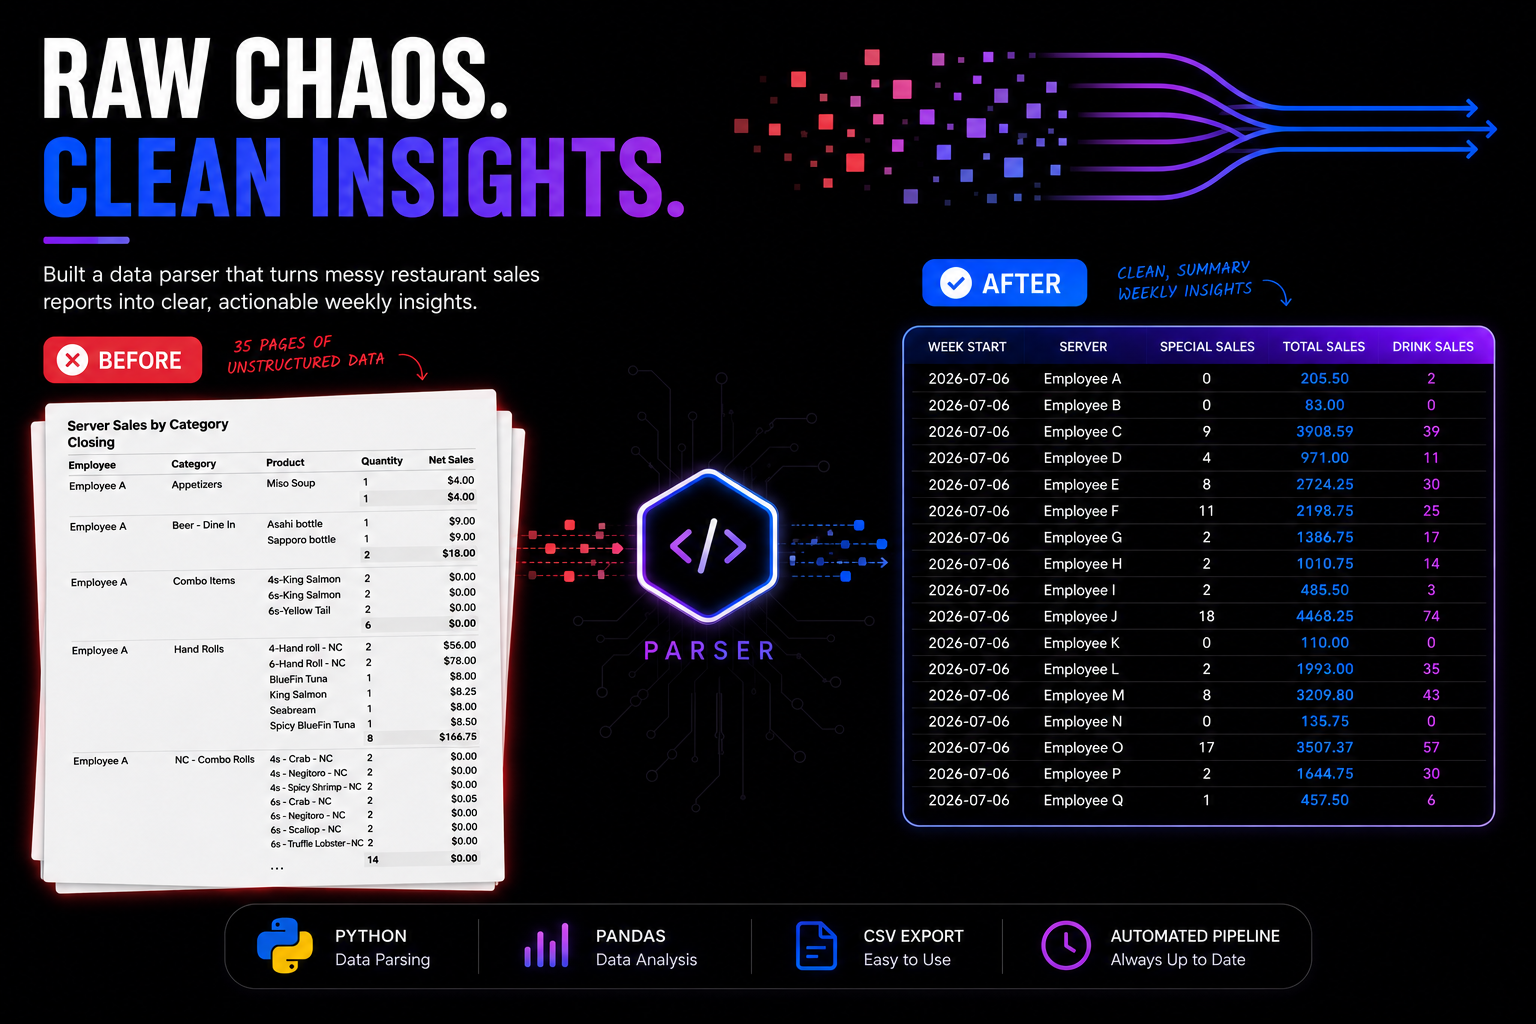
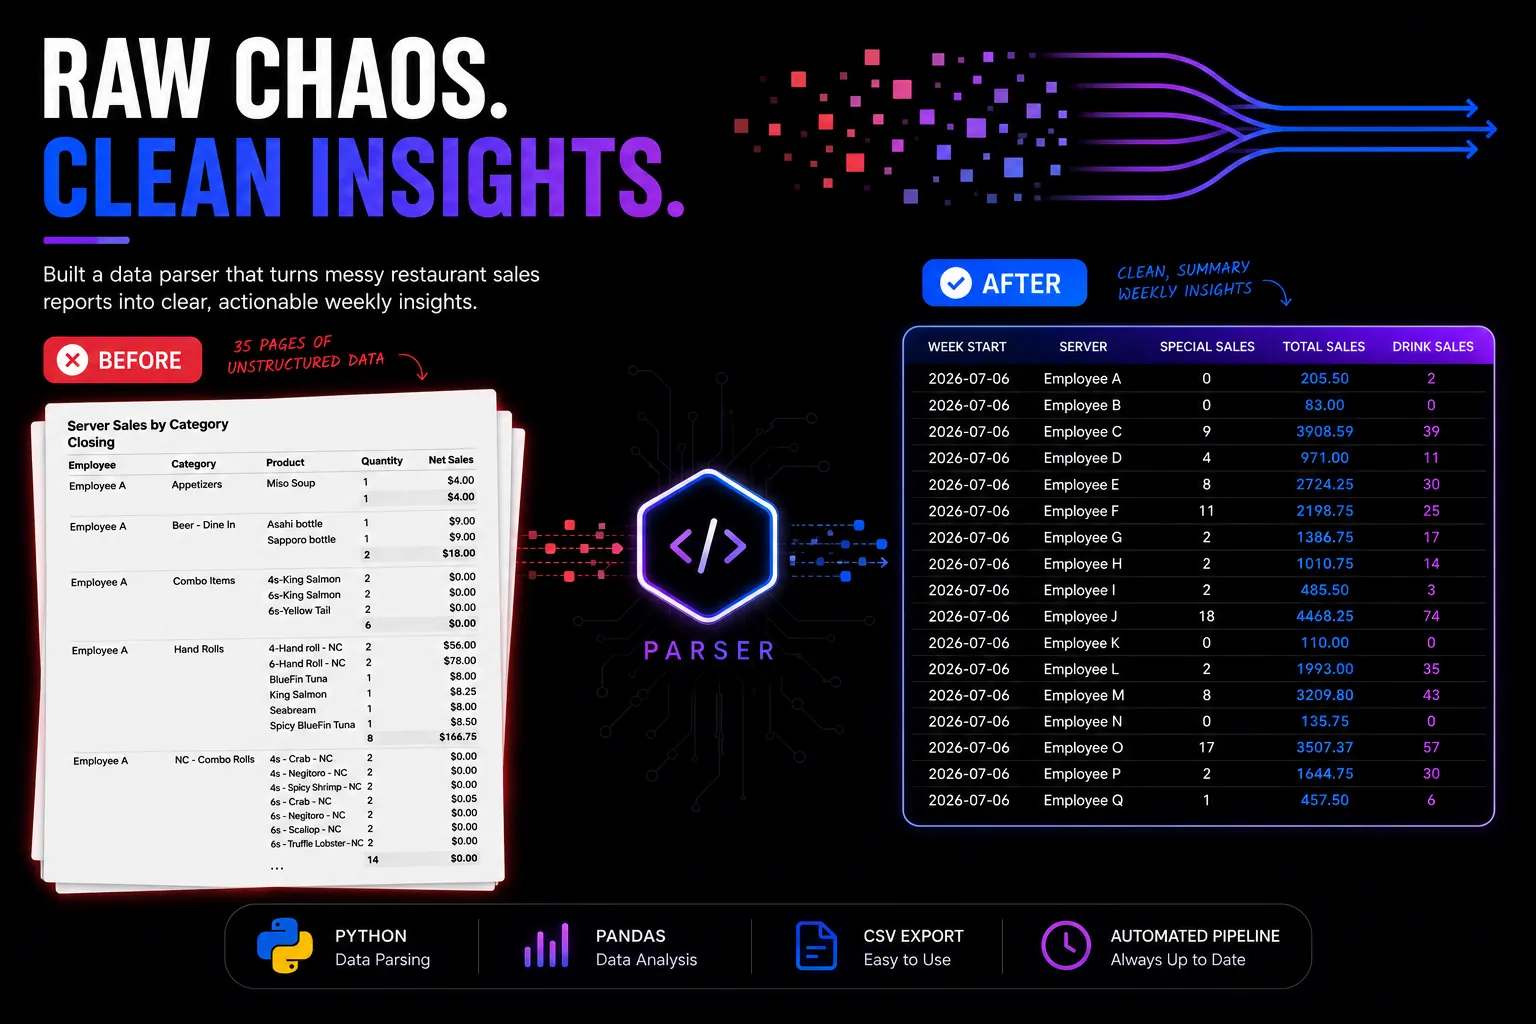
homepage changes

diff --git a/liamthemo-freelance-website/src/app/page.tsx b/liamthemo-freelance-website/src/app/page.tsx
@@ -1,10 +1,10 @@
 import type { Metadata } from "next";
 import Link from "next/link";
 import CTASection from "@/components/CTASection";
-import Mark from "@/components/Mark";
-import ProcessDiagram from "@/components/ProcessDiagram";
+import FeaturedWork from "@/components/FeaturedWork";
+import HeroArt from "@/components/HeroArt";
 import ServiceTriage from "@/components/ServiceTriage";
-import { CTA } from "@/lib/nav";
+import { projects } from "@/data/projects";
 
 /*
   Home. Fully static — nothing on this page reads cookies(), headers(),
@@ -67,68 +67,90 @@ export default function Home() {
         <div className="relative mx-auto max-w-6xl px-5 pt-16 pb-16 sm:px-8 sm:pt-24 sm:pb-20">
           <div className="grid items-center gap-14 lg:grid-cols-[minmax(0,1fr)_minmax(0,24rem)]">
             <div>
-              <h1 className="max-w-[16ch] text-display text-text">
-                I build tools that save you <Mark>time</Mark>
+              {/*
+                Owner call, overriding §11's "outcome work" reading of this
+                exact line: ships as the mockup's literal words. The triage
+                widget directly below is what actually does the outcome work
+                for a confused visitor — see its own note in ServiceTriage.tsx.
+              */}
+              <h1 className="max-w-[18ch] text-display text-text">
+                <span className="block">
+                  Hi, I&apos;m <span className="text-accent">Liam</span>.
+                </span>
+                <span className="block">
+                  I design and build digital experiences.
+                </span>
               </h1>
               <p className="mt-6 max-w-[52ch] text-body text-text-muted">
                 Custom automation, spreadsheets, websites, and technology
                 solutions for individuals and small businesses.
               </p>
 
-              <div className="mt-9 flex flex-col gap-3 sm:flex-row sm:items-center">
-                <Link
-                  href={CTA.href}
-                  className="inline-flex items-center justify-center rounded-lg border border-accent bg-accent px-5 py-2.5 font-semibold text-bg transition-colors hover:bg-accent-hover"
-                >
-                  {CTA.label}
-                </Link>
-                {/*
-                  Secondary action is a link, not a second filled button. Two
-                  equally weighted buttons make the visitor choose twice.
-                */}
+              {/*
+                Single action, matching the mockup — "Contact now" isn't
+                dropped from the page, it's one section down as the triage
+                widget's whole reason for existing, and again at the closing
+                CTA. This link doesn't need to also carry that weight.
+              */}
+              <div className="mt-9">
                 <Link
                   href="/portfolio"
-                  className="inline-flex items-center justify-center rounded-lg px-5 py-2.5 font-medium text-accent underline underline-offset-4 transition-colors hover:text-accent-hover"
+                  className="group inline-flex items-center gap-2 rounded-full border border-accent px-6 py-3 font-medium text-text transition-all duration-200 hover:border-accent-hover hover:shadow-[0_0_24px_var(--color-accent-dim)]"
                 >
-                  See what I&apos;ve done
+                  View my work
+                  <svg
+                    aria-hidden="true"
+                    viewBox="0 0 24 24"
+                    fill="none"
+                    stroke="currentColor"
+                    strokeWidth="2"
+                    strokeLinecap="round"
+                    strokeLinejoin="round"
+                    className="h-4 w-4 text-accent transition-transform group-hover:translate-x-0.5 group-hover:-translate-y-0.5"
+                  >
+                    <path d="M7 17 17 7M9 7h8v8" />
+                  </svg>
                 </Link>
               </div>
             </div>
 
             {/*
               Hidden below lg, and that is a conversion decision rather than a
-              layout shortcut. On a phone the diagram is decorative weight sitting
-              between the headline and the triage widget, and §2's first success
-              criterion is that a confused visitor finds the right service in
-              under 15 seconds. Mobile still gets the dot grid and the marked
-              keyword; it does not need to scroll past a picture to reach the
-              thing that actually converts.
+              layout shortcut. On a phone the artwork is decorative weight
+              sitting between the headline and the triage widget, and §2's
+              first success criterion is that a confused visitor finds the
+              right service in under 15 seconds. Mobile still gets the dot
+              grid and the full headline; it does not need to scroll past a
+              picture to reach the thing that actually converts.
             */}
-            <ProcessDiagram className="hidden lg:block" />
+            <HeroArt className="hidden lg:block" />
           </div>
         </div>
       </section>
 
       <ServiceTriage />
 
-      {/*
-        TODO (owner input required): the social proof strip from §14 step 2 sits
-        here, between the triage widget and the closing CTA.
+      <section
+        aria-labelledby="featured-work-heading"
+        className="mx-auto max-w-6xl px-5 py-16 sm:px-8 sm:py-20"
+      >
+        <div className="flex items-baseline justify-between gap-4">
+          <h2 id="featured-work-heading" className="text-h2 text-text">
+            Featured work
+          </h2>
+          <Link
+            href="/portfolio"
+            className="inline-flex shrink-0 items-center gap-1 text-small font-medium text-accent underline underline-offset-4 hover:text-accent-hover"
+          >
+            View all
+            <span aria-hidden="true">→</span>
+          </Link>
+        </div>
 
-        Deliberately not built. Everything that would fill it — a result metric,
-        a client name, a testimonial, a project count — is either an open
-        decision in §15 or something §10 forbids inventing. A strip of plausible
-        placeholder numbers is the single fastest way to lose a real client, and
-        it would be indistinguishable from real copy by the time anyone came back
-        to fix it.
-
-        To unblock, the owner needs to supply any ONE of:
-          - a real metric for the Restaurant Sales Parser (hours saved per week,
-            and the manual step it removed)
-          - permission to name Fuse Factory publicly
-          - a screenshot of real work that can be shown (§9 prefers a real
-            screenshot over any illustration)
-      */}
+        <div className="mt-8">
+          <FeaturedWork projects={projects} />
+        </div>
+      </section>
 
       {/*
         No secondary link here (unlike the other pages' CTASection) — the

diff --git a/liamthemo-freelance-website/src/components/HeroArt.tsx b/liamthemo-freelance-website/src/components/HeroArt.tsx
@@ -1,0 +1,83 @@
+/*
+  The hero's visual (CLAUDE.md §15 Phase 2, mockup composition: "large heading
+  left, artwork right"). Rebuilds the mockup's glowing-badge concept as inline
+  SVG + CSS rather than reusing the mockup's own render.
+
+  WHY NOT THE MOCKUP'S ASSET. That render only exists baked into the flattened
+  homepage screenshot — extracted, it's a ~650x320px crop, below retina
+  quality at real hero size, unlicensed for production use, and it's an LCP
+  candidate, so shipping a soft upscaled crop as the first paint is a bad
+  trade. It's also the kind of generic 3D render §9.6 lists as an anti-goal.
+
+  WHAT THIS IS INSTEAD: the real "lm" mark (same glyph as Navbar/Footer) on a
+  card, with a soft --accent-dim glow behind it standing in for the rim light,
+  and a low-contrast "mound" shape anchoring it to something solid — same
+  spirit as the mockup, zero image weight, infinitely crisp, no licensing
+  question, and it reinforces the actual logo instead of a stock-feeling prop.
+
+  EDGES BLEND, NOT A VISIBLE BOX. The glow is a blurred radial-gradient div
+  behind the SVG, feathering to transparent well before the container edge —
+  required per this phase's brief ("edges blend into the background rather
+  than showing a visible box"). The mound uses --surface-2, one step off
+  --bg, so its silhouette reads as form without a hard outline.
+*/
+
+export default function HeroArt({ className = "" }: { className?: string }) {
+  return (
+    <div className={`relative flex items-center justify-center ${className}`}>
+      <div
+        aria-hidden="true"
+        className="pointer-events-none absolute inset-0 blur-3xl"
+        style={{
+          background:
+            "radial-gradient(closest-side, var(--color-accent-dim), transparent)",
+        }}
+      />
+      <svg
+        viewBox="0 0 480 480"
+        aria-hidden="true"
+        focusable="false"
+        className="relative h-auto w-full max-w-[26rem]"
+      >
+        {/* Mound — low-contrast against --bg on purpose, so it reads as a
+            surface the card sits on rather than a distinct shape. */}
+        <path
+          d="M40 400 Q100 320 190 340 Q260 300 330 350 Q410 330 450 400 L450 460 L30 460 Z"
+          className="fill-surface-2"
+        />
+
+        {/* Card */}
+        <rect
+          x="140"
+          y="90"
+          width="200"
+          height="200"
+          rx="32"
+          className="fill-surface stroke-border"
+          strokeWidth="2"
+        />
+        {/* Rim light — one edge only, echoing the mockup's directional glow
+            without a literal 3D render. */}
+        <path
+          d="M172 92 Q142 92 142 122 L142 288"
+          fill="none"
+          className="stroke-accent"
+          strokeWidth="2"
+          strokeLinecap="round"
+          opacity="0.6"
+        />
+
+        <text
+          x="240"
+          y="215"
+          textAnchor="middle"
+          dominantBaseline="middle"
+          className="fill-accent font-display font-bold"
+          fontSize="88"
+        >
+          lm
+        </text>
+      </svg>
+    </div>
+  );
+}

diff --git a/liamthemo-freelance-website/src/components/FeaturedWork.tsx b/liamthemo-freelance-website/src/components/FeaturedWork.tsx
@@ -1,0 +1,58 @@
+import Image from "next/image";
+import Link from "next/link";
+import type { Project } from "@/lib/types";
+
+/*
+  Home page featured grid (CLAUDE.md §15 Phase 2, §5). Distinct from
+  ProjectCard on purpose: the mockup's three cards are pure cover art, no
+  title/chip/summary caption underneath — the image carries the section on
+  its own, which is what §2's second success criterion ("does the work look
+  impressive... shown large") is asking for here specifically. ProjectCard's
+  richer treatment (chips, title, summary) is still correct on /portfolio,
+  where a visitor is comparing several projects and needs the text to tell
+  them apart before clicking.
+
+  Every `featured` project is required to carry `images[0]` — see the filter
+  below — so a project flagged featured without cover art fails silently
+  rather than breaking the grid; CLAUDE.md §6 already requires cover art for
+  a featured entry, so this is a defensive check, not the primary guard.
+
+  BELOW THE FOLD, LAZY, DELIBERATELY UNLIKE THE HERO. This section renders
+  after the hero and triage widget, so `loading="lazy"` (next/image's default
+  once `priority` is absent, made explicit here so a future edit can't
+  silently drop it) keeps these three images out of the critical request path
+  entirely — they don't compete with the LCP element for bandwidth.
+*/
+
+export default function FeaturedWork({ projects }: { projects: Project[] }) {
+  const featured = projects.filter(
+    (project) => project.featured && project.images?.[0],
+  );
+
+  return (
+    <ul className="grid gap-6 sm:grid-cols-3">
+      {featured.map((project) => {
+        const cover = project.images![0];
+        return (
+          <li key={project.slug}>
+            <Link
+              href={`/portfolio/${project.slug}`}
+              className="group block overflow-hidden rounded-xl border border-border transition-all duration-200 hover:border-accent hover:shadow-[0_0_28px_var(--color-accent-dim)]"
+            >
+              <div className="relative aspect-[3/2] w-full overflow-hidden">
+                <Image
+                  src={cover.src}
+                  alt={cover.alt}
+                  fill
+                  loading="lazy"
+                  sizes="(min-width: 640px) 33vw, 100vw"
+                  className="object-cover transition-transform duration-300 group-hover:scale-[1.03]"
+                />
+              </div>
+            </Link>
+          </li>
+        );
+      })}
+    </ul>
+  );
+}

diff --git a/liamthemo-freelance-website/src/components/ServiceTriage.tsx b/liamthemo-freelance-website/src/components/ServiceTriage.tsx
@@ -103,8 +103,11 @@ const unsure = {
   emoji: "❓",
 } as const;
 
+// §9.4: hover is a border shift, a subtle lift, and a glow — not just a
+// colour change. accent-dim (not a hard black shadow, which disappears on a
+// dark background) is what §9.4 names for exactly this.
 const cardBase =
-  "group flex h-full items-center gap-4 rounded-xl border p-5 transition-colors";
+  "group flex h-full items-center gap-4 rounded-xl border p-5 transition-all duration-200 hover:-translate-y-0.5";
 
 const chipBase =
   "flex h-10 w-10 shrink-0 items-center justify-center rounded-lg text-lg";
@@ -144,7 +147,7 @@ export default function ServiceTriage() {
             <li key={option.href}>
               <Link
                 href={option.href}
-                className={`${cardBase} border-border bg-surface-2 hover:border-accent`}
+                className={`${cardBase} border-border bg-surface-2 hover:border-accent hover:shadow-[0_0_28px_var(--color-accent-dim)]`}
               >
                 <span aria-hidden="true" className={`${chipBase} ${option.chipClass}`}>
                   {option.emoji}
@@ -169,7 +172,7 @@ export default function ServiceTriage() {
             */}
             <Link
               href={unsure.href}
-              className={`${cardBase} border-accent bg-accent-dim hover:bg-surface-2`}
+              className={`${cardBase} border-accent bg-accent-dim hover:bg-surface-2 hover:shadow-[0_0_32px_var(--color-accent-dim)]`}
             >
               <span aria-hidden="true" className={`${chipBase} bg-accent-dim`}>
                 {unsure.emoji}

diff --git a/liamthemo-freelance-website/src/data/projects.ts b/liamthemo-freelance-website/src/data/projects.ts
@@ -41,7 +41,14 @@ export const projects: Project[] = [
     stack: ["Next.js", "TypeScript", "Tailwind CSS", "Cloudflare Workers"],
     // images: intentionally omitted — no screenshots needed; the visitor is
     // already looking at it.
-    featured: true,
+    //
+    // featured: false — CLAUDE.md §15 Phase 2's approved mockup shows a
+    // specific three: Fuse Factory, OrangeCheasy, Restaurant Sales Parser.
+    // This site is real work, but it isn't image-led the way the mockup's
+    // grid needs (no `images`, and a screenshot of the site the visitor is
+    // already on doesn't demonstrate anything). Flipped in favour of the
+    // mockup's picks rather than adding a fourth featured card.
+    featured: false,
   },
   {
     slug: "fuse-factory",
@@ -74,7 +81,8 @@ export const projects: Project[] = [
         alt: "Fuse Factory game thumbnail: the game logo above three cube-shaped Boomie characters with lit fuses, in a factory setting with colored crates.",
       },
     ],
-    featured: false,
+    // featured: true — one of the mockup's three home-page picks (§15 Phase 2).
+    featured: true,
   },
   {
     slug: "orangecheasy-youtube",
@@ -123,7 +131,8 @@ export const projects: Project[] = [
         height: 1984,
       },
     ],
-    featured: false,
+    // featured: true — one of the mockup's three home-page picks (§15 Phase 2).
+    featured: true,
   },
   {
     slug: "restaurant-sales-parser",
